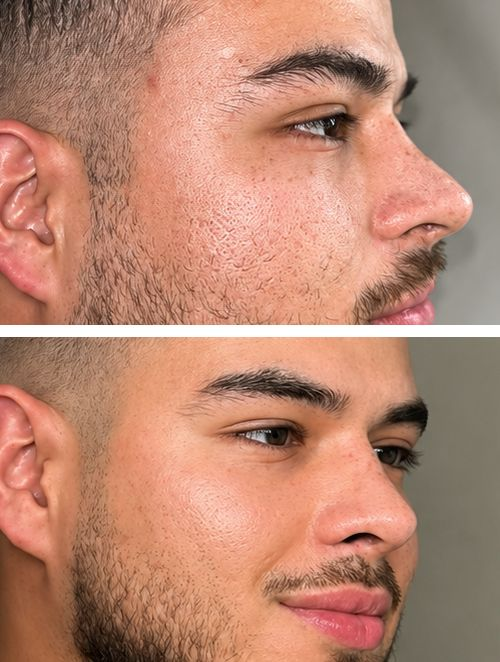
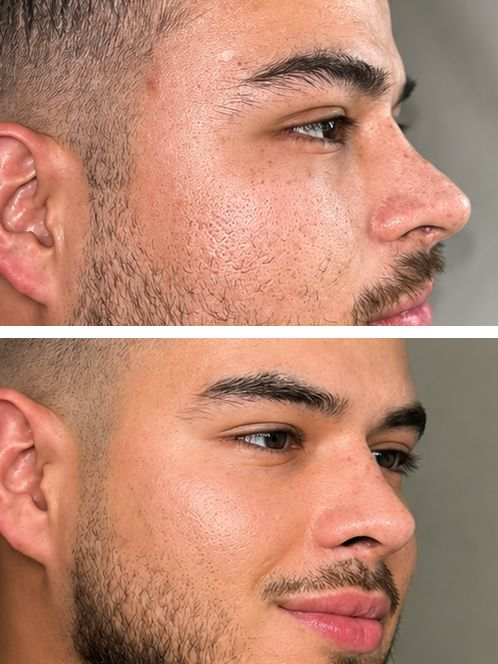
Galería: fotos de antes y después parejas en formato 3:4

diff --git a/components/sections.tsx b/components/sections.tsx
@@ -301,7 +301,7 @@ export function Gallery({ photos }: { photos: GalleryPhoto[] }) {
                       alt={label(photo)}
                       fill
                       sizes="(max-width: 1024px) 45vw, 25vw"
-                      className="object-contain transition-transform duration-500 group-hover:scale-[1.03]"
+                      className="object-cover transition-transform duration-500 group-hover:scale-[1.03]"
                     />
                   </button>
                   <figcaption className="mt-3 text-[11px] tracking-[0.18em] text-clinic/70 uppercase">
